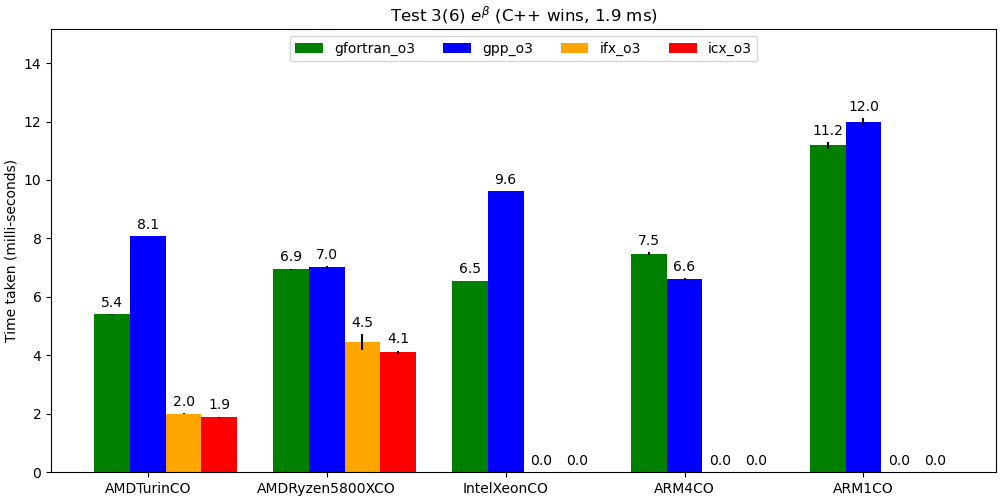
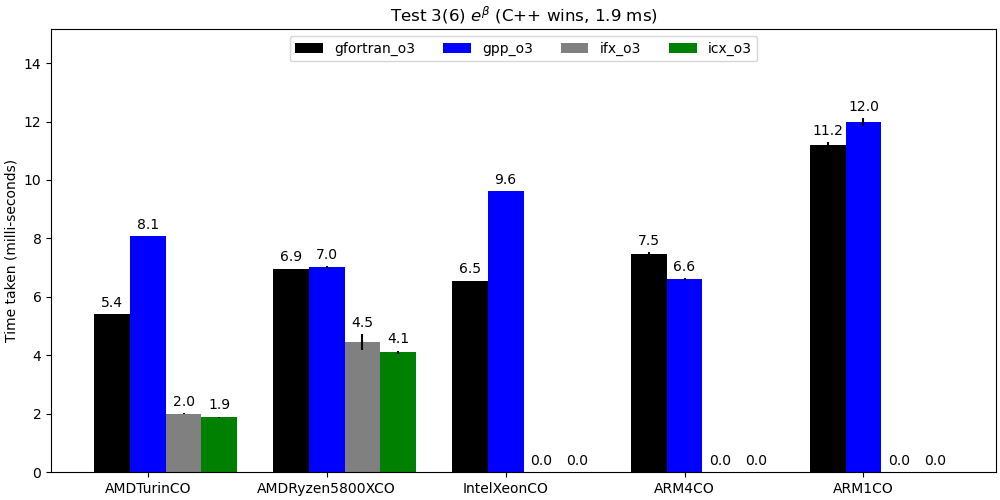
Plots update

diff --git a/Y1_make_plots.py b/Y1_make_plots.py
@@ -63,7 +63,7 @@ def make_plot(plot_num, test_num, plot_title):
     f"Test{test_num}/ifx_o3.x",
     f"Test{test_num}/icx_o3.x",
     ]
-    colors = tuple(["green","blue","orange","red" ])
+    colors = tuple(["black","blue","gray","green" ])
 
     max_y = 0.0
     configurations = tuple(cpus)
